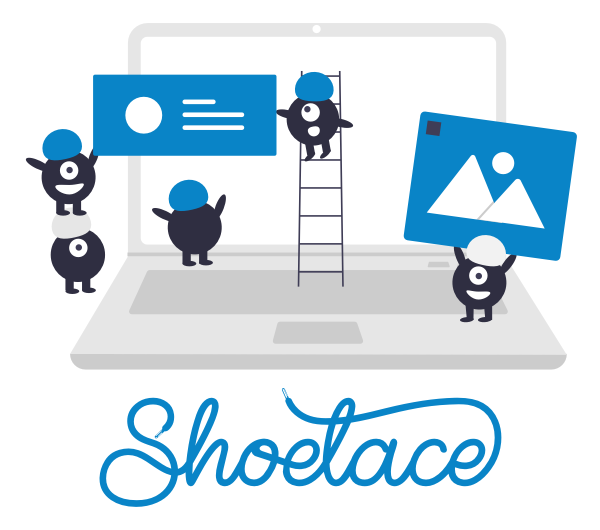
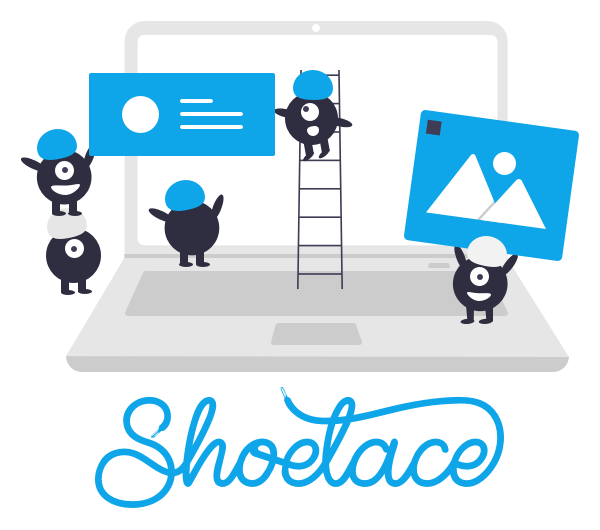
revert SL brand color

Changed region(s): [[0.03, 0.0302, 0.99, 0.634], [0.09, 0.6642, 0.96, 0.966], [0.21, 0.5132, 0.24, 0.6038]]

diff --git a/docs/index.html b/docs/index.html
@@ -87,7 +87,7 @@
           depth: 3,
           namespace: 'shoelace-docs'
         },
-        themeColor: 'rgb(var(--sl-color-primary-600))'
+        themeColor: 'rgb(var(--sl-color-primary-500))'
       };
     </script>
     <script src="https://cdn.jsdelivr.net/npm/docsify@4/lib/docsify.min.js"></script>

diff --git a/docs/assets/styles/docs.css b/docs/assets/styles/docs.css
@@ -159,10 +159,6 @@ strong {
   box-shadow: 0 0 0 var(--sl-focus-ring-width) rgb(var(--sl-color-primary-500) / var(--sl-focus-ring-alpha));
 }
 
-.sidebar-toggle span {
-  background-color: rgb(var(--sl-color-primary-600));
-}
-
 .sidebar-toggle span:last-child {
   margin-bottom: 0;
 }
